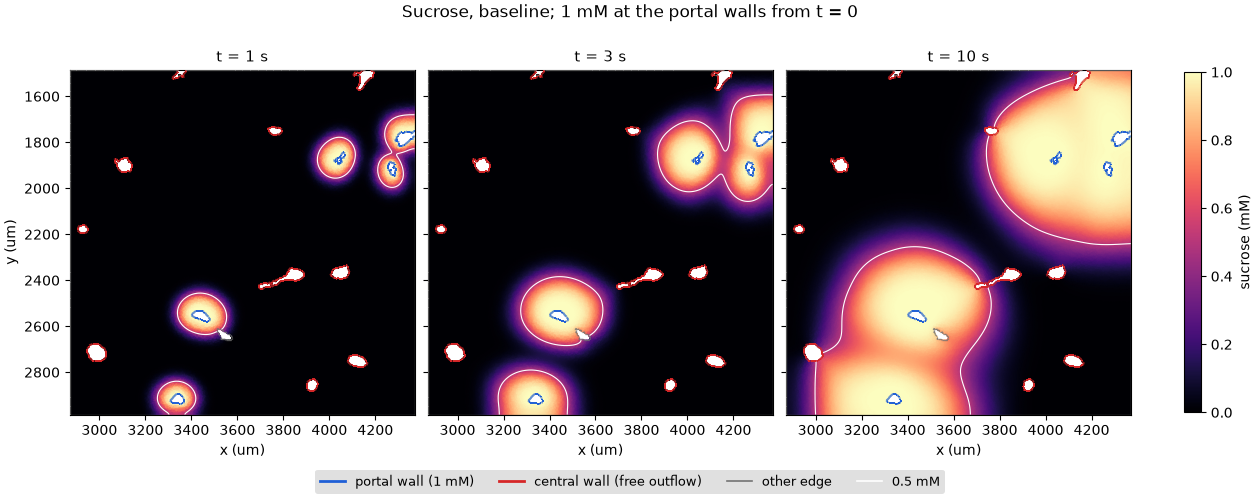
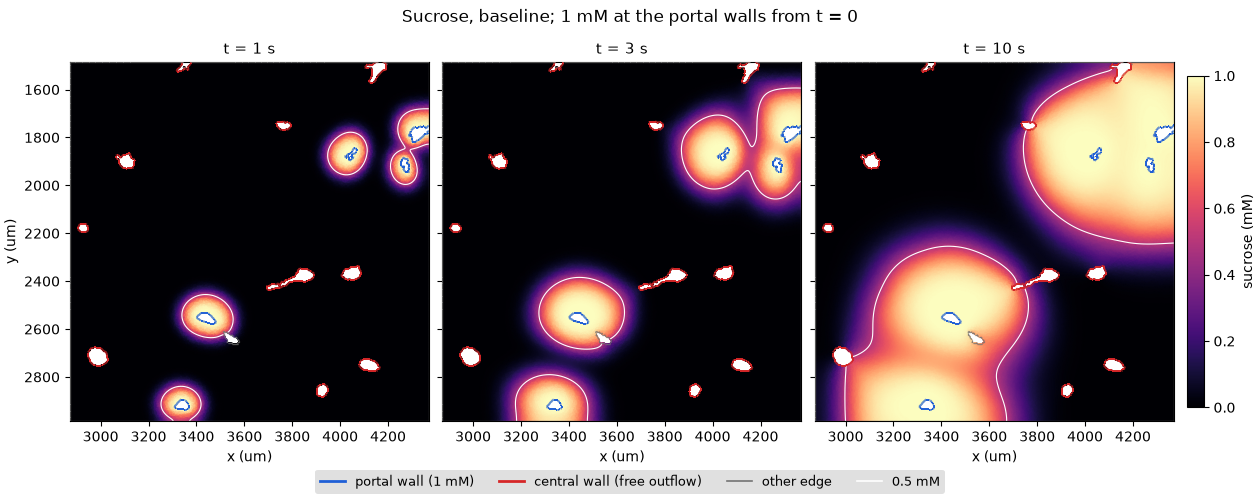
docs: rewrap results prose, whole numbers without -0 in report tables, tighter figure layouts

diff --git a/scripts/e2e/m2_real_slide/report.py b/scripts/e2e/m2_real_slide/report.py
@@ -16,6 +16,11 @@ from pathlib import Path
 OUTLET = "central_wall"
 
 
+def whole(x: float) -> str:
+    """x rounded to a whole number, without the sign of a value that rounds to zero ("0", not "-0")."""
+    return str(round(x) + 0)
+
+
 def flows(runs: dict) -> list[str]:
     lines = [("| Run | portal_wall | central_wall | sum / largest | portal pieces (all inflow) | central pieces "
              "(all outflow) | pieces vs tag_flows |"), "|---|---|---|---|---|---|---|"]
@@ -54,9 +59,26 @@ def balance(runs: dict) -> list[str]:
             free = b["free_outflow"]
             leak = " / ".join(f"{free[t]['pct_of_portal_flow']:.2f}" if t in free else "-"
                               for t in ("vessel_wall", "field_cut", "section_edge"))
-            lines.append(f"| {name} | {b['t']:g} | {b['storage_rate']:.0f} | {portal['advective']:.0f} + "
-                         f"{portal['diffusive']:.0f} | {b['inflow'][OUTLET]['advective']:.0f} | {leak} | "
+            lines.append(f"| {name} | {b['t']:g} | {whole(b['storage_rate'])} | {whole(portal['advective'])} + "
+                         f"{whole(portal['diffusive'])} | {whole(b['inflow'][OUTLET]['advective'])} | {leak} | "
                          f"{b['defect_pct_of_portal_flow']:.1f} | {b['closure_over_largest_term']:.0e} |")
+    return lines
+
+
+def balance_terms(runs: dict) -> list[str]:
+    """The terms of the balance in mM*um^2/s, per run and output time."""
+    lines = [("| Run | t (s) | storage_rate | portal_wall advective + diffusive | central_wall advective | "
+              "vessel_wall / field_cut / section_edge advective | advection_defect |"),
+             "|---|---|---|---|---|---|---|"]
+    for name, r in runs.items():
+        for b in r["balance"]:
+            inflow = b["inflow"]
+            portal = inflow["portal_wall"]
+            walls = " / ".join(whole(inflow[t]["advective"]) if t in inflow else "-"
+                               for t in ("vessel_wall", "field_cut", "section_edge"))
+            lines.append(f"| {name} | {b['t']:g} | {whole(b['storage_rate'])} | {whole(portal['advective'])} + "
+                         f"{whole(portal['diffusive'])} | {whole(inflow[OUTLET]['advective'])} | {walls} | "
+                         f"{whole(b['advection_defect'])} |")
     return lines
 
 
@@ -96,7 +118,7 @@ def front(runs: dict) -> list[str]:
     for name, r in runs.items():
         for f in r["front"]:
             lines.append(f"| {name} | {f['t']:g} | {f['area_above_half_pct']:.1f} % | {f['central_wall_mean']:.3f} | "
-                         f"{f['min']:.1e} | {f['max']:.6f} | {f['total_mass']:.0f} |")
+                         f"{f['min']:.1e} | {f['max']:.6f} | {whole(f['total_mass'])} |")
     return lines
 
 
@@ -107,7 +129,9 @@ def main() -> None:
     args = parser.parse_args()
     runs = {p.stem: json.loads(p.read_text()) for p in args.analyses}
     for title, table in (("Flows", flows), ("Flow per wall piece (um^2/s, positive into the domain)", pieces),
-                         ("Mass balance of the tracer (mM*um^2/s)", balance),
+                         ("Mass balance of the tracer (mM*um^2/s; leak and defect in % of the portal flow)",
+                          balance),
+                         ("Terms of the mass balance of the tracer (mM*um^2/s)", balance_terms),
                          ("Outflow through walls without flow, by piece", leak_pieces),
                          ("Interstitial velocity (um/s)", velocity), ("Tracer front", front)):
         print(f"## {title}\n")

diff --git a/scripts/e2e/m2_real_slide/velocity_distribution.py b/scripts/e2e/m2_real_slide/velocity_distribution.py
@@ -48,7 +48,7 @@ def main() -> None:
     parser.add_argument("--out", type=Path, required=True, help="the PNG file to write")
     args = parser.parse_args()
     plt.switch_backend("Agg")
-    fig, axes = plt.subplots(1, 2, figsize=(11.0, 5.4), layout="constrained")
+    fig, axes = plt.subplots(1, 2, figsize=(11.0, 5.0), layout="constrained")
     bounds: dict[float, list] = {}
     lowest, highest_bin = np.inf, 0.0
     for spec, color in zip(args.runs, COLORS, strict=False):
@@ -98,8 +98,8 @@ def main() -> None:
     axes[0].set_title("Median and 10-90 % band per distance class;\ndashed: 1D bound k_along/mu x pressure drop / "
                       "distance / phi", fontsize=10)
     medians = axes[0].get_legend_handles_labels()[0]
-    axes[0].legend(handles=medians + handles, fontsize=8, loc="upper center", bbox_to_anchor=(0.5, -0.16), ncol=2,
-                   frameon=False)
+    # below both axes, centred on the figure
+    fig.legend(handles=medians + handles, fontsize=8, loc="outside lower center", ncol=4, frameon=False)
     axes[1].axvspan(*MEASURED, color="0.88", lw=0, zorder=0)
     axes[1].fill_between([], [], color="0.88", label=f"measured in mice, {MEASURED[0]:g}-{MEASURED[1]:g} um/s")
     axes[1].set_ylim(0, highest_bin * 1.45)

diff --git a/scripts/e2e/m2_real_slide/render.py b/scripts/e2e/m2_real_slide/render.py
@@ -111,7 +111,7 @@ def velocity(run: Run, triangulation: mtri.Triangulation, he_path: Path, title: 
 
 def sucrose(run: Run, triangulation: mtri.Triangulation, field: str, title: str, path: Path) -> None:
     times = run.summary["fields"][field]["times"]
-    fig, axes = plt.subplots(1, len(TIMES), figsize=(12.6, 5.0), sharey=True, layout="constrained")
+    fig, axes = plt.subplots(1, len(TIMES), figsize=(12.6, 5.0), sharey=True, layout="compressed")
     for ax, t in zip(axes, TIMES, strict=True):
         index = int(np.argmin(np.abs(np.array(times) - t)))
         c = run.field(field, index)
@@ -123,7 +123,7 @@ def sucrose(run: Run, triangulation: mtri.Triangulation, field: str, title: str,
         if ax is not axes[0]:
             ax.set_ylabel("")
         ax.set_title(f"t = {times[index]:g} s")
-    fig.colorbar(mappable, ax=axes, label=f"{field} (mM)", shrink=0.8)
+    fig.colorbar(mappable, ax=axes, label=f"{field} (mM)", shrink=0.8, pad=0.012)
     handles = [Line2D([], [], color=PORTAL, lw=2, label="portal wall (1 mM)"),
                Line2D([], [], color=CENTRAL, lw=2, label="central wall (free outflow)"),
                Line2D([], [], color=OTHER, lw=1.2, label="other edge"),

diff --git a/scripts/e2e/m2_real_slide/cases.py b/scripts/e2e/m2_real_slide/cases.py
@@ -31,7 +31,7 @@ def main() -> None:
     args = parser.parse_args()
     plt.switch_backend("Agg")
     fig, axes = plt.subplots(1, len(args.runs), figsize=(3.3 * len(args.runs) + 1.0, 4.4), sharey=True,
-                             layout="constrained")
+                             layout="compressed")
     for ax, spec in zip(np.atleast_1d(axes), args.runs, strict=True):
         label, rest = spec.split("=", 1)
         run_dir, study = rest.split(":")
@@ -47,7 +47,7 @@ def main() -> None:
         if ax is not np.atleast_1d(axes)[0]:
             ax.set_ylabel("")
         ax.set_title(label, fontsize=10)
-    fig.colorbar(mappable, ax=axes, label=f"{args.field} (mM)", shrink=0.85)
+    fig.colorbar(mappable, ax=axes, label=f"{args.field} (mM)", shrink=0.85, pad=0.012)
     handles = [Line2D([], [], color=PORTAL, lw=2, label="portal wall (1 mM)"),
                Line2D([], [], color=CENTRAL, lw=2, label="central wall (free outflow)"),
                Line2D([], [], color=OTHER, lw=1.2, label="other edge"),

diff --git a/docs/results/2026-11-m2-real-slide.md b/docs/results/2026-11-m2-real-slide.md
@@ -182,13 +182,13 @@ middle) are the high-pressure islands. The y axis points down, as the rows of th
 ![Flow over the H&E](2026-11-m2-real-slide/velocity.png)
 
 Streamlines of the Darcy velocity over the H&E of the field (gray scale, contrast stretched),
-colored by the interstitial velocity |u|/phi. The color scale ends at 68 um/s, the 98th
-percentile of |u|/phi over the tissue (area weighted); faster paths, next to the portal walls,
-show in the top color (radial10: 41 um/s). The mesh walls lie on the lumina of the H&E. Flow leaves each
-portal wall to all sides and enters the central walls around it; the fastest paths join the
-portal wall at (3440, 2550) um with the central walls at (3720-3870, 2370-2410) um, and the three
-portal walls at the upper right with the central walls at (3760, 1740) and (4180, 1530) um. The
-left part of the field (x below 3300 um) has no portal wall and slow flow.
+colored by the interstitial velocity |u|/phi. The color scale ends at 68 um/s, the 98th percentile
+of |u|/phi over the tissue (area weighted); faster paths, next to the portal walls, show in the top
+color (radial10: 41 um/s). The mesh walls lie on the lumina of the H&E. Flow leaves each portal wall
+to all sides and enters the central walls around it; the fastest paths join the portal wall at
+(3440, 2550) um with the central walls at (3720-3870, 2370-2410) um, and the three portal walls at
+the upper right with the central walls at (3760, 1740) and (4180, 1530) um. The left part of the
+field (x below 3300 um) has no portal wall and slow flow.
 
 With strong radial anisotropy (radial10) the flow follows the zonation gradient more strictly:
 paths between near pairs are straighter, and where the gradient turns, in the left half, the
@@ -221,14 +221,14 @@ elsewhere.
 
 ![Velocity against the portal-central distance, and its distribution](2026-11-m2-real-slide/velocity_distribution.png)
 
-Left: the interstitial velocity falls with the local portal-central distance as Darcy flow
-should. The dashed lines, k_along/mu x 390 Pa / distance / phi for a straight one-dimensional
-path, are upper bounds, one per study; baseline and radial10 share theirs (gray), as they have
-the same k_along and viscosity. For the baseline the median is within a factor of 1.2-1.4 of it
-at 250-350 um, the shortest distances in this field. radial10 stays a factor of 2.5-5 below it, since its flow has to cross the zonation gradient in
-places. Beyond 900 um (the left part without portal walls) the velocity drops steeply. Right:
-the distribution over the tissue is wide; the calibrated study puts 26 % of the tissue into the
-measured range, the baseline 1.9 %.
+Left: the interstitial velocity falls with the local portal-central distance as Darcy flow should.
+The dashed lines, k_along/mu x 390 Pa / distance / phi for a straight one-dimensional path, are
+upper bounds, one per study; baseline and radial10 share theirs (gray), as they have the same
+k_along and viscosity. For the baseline the median is within a factor of 1.2-1.4 of it at 250-350
+um, the shortest distances in this field. radial10 stays a factor of 2.5-5 below it, since its flow
+has to cross the zonation gradient in places. Beyond 900 um (the left part without portal walls) the
+velocity drops steeply. Right: the distribution over the tissue is wide; the calibrated study puts
+26 % of the tissue into the measured range, the baseline 1.9 %.
 
 Why the field mean is low: the field holds about 13 lobules (CYP2E1 peaks), and so about 13
 central veins and as many portal tracts, but the mesh has 5 portal walls (see "Choice of the
@@ -254,10 +254,10 @@ portal regions. The front spreads to all sides of each portal wall, also into th
 | 5 | 20.5 % | 0.055 | 69609 |
 | 10 | 36.2 % | 0.208 | 120079 |
 
-The mean at the central wall nodes is low because 9 of the 13 central wall pieces lie more than
-300 um from the nearest portal wall. With 2 refinements the minimum of the field stays above
--1e-13 mM (with 0 refinements -1e-6 mM at 1 s) and the maximum at 1 mM: no over- or undershoot at these cell Peclet numbers (Darcy
-velocity times element size over diffusion: 0.02-0.1 near the portal walls).
+The mean at the central wall nodes is low because 9 of the 13 central wall pieces lie more than 300
+um from the nearest portal wall. With 2 refinements the minimum of the field stays above -1e-13 mM
+(with 0 refinements -1e-6 mM at 1 s) and the maximum at 1 mM: no over- or undershoot at these cell
+Peclet numbers (Darcy velocity times element size over diffusion: 0.02-0.1 near the portal walls).
 
 ![Sucrose at 3 s in the four studies](2026-11-m2-real-slide/sucrose_cases_3s.png)
 
@@ -279,12 +279,15 @@ residual of the discrete equations, at a Dirichlet tag; zero at a tag without co
 split is exact: both parts are computed apart in slidesim. The balance closes to 3e-13 of its
 largest term in every run and at every output time.
 
-Baseline, 2 refinements (portal wall flow 13955 um^2/s, so 13955 mM*um^2/s at 1 mM):
+Baseline, 2 refinements (portal wall flow 13955 um^2/s, so 13955 mM*um^2/s at 1 mM; the table of
+`report.py`, in whole mM*um^2/s):
 
 | t (s) | storage_rate | portal_wall advective + diffusive | central_wall advective | vessel_wall / field_cut / section_edge advective | advection_defect |
 |---|---|---|---|---|---|
-| 1 | 14300 | 12754 + 380 | -0 | -34 / -9 / -0 | -1209 |
-| 3 | 13715 | 12754 + 100 | -240 | -69 / -21 / -0 | -1190 |
+| 1 | 14300 | 12754 + 380 | 0 | -34 / -9 / 0 | -1209 |
+| 2 | 14058 | 12754 + 179 | -12 | -58 / -17 / 0 | -1212 |
+| 3 | 13715 | 12754 + 100 | -240 | -69 / -21 / 0 | -1190 |
+| 5 | 12045 | 12754 + 37 | -1702 | -77 / -27 / -1 | -1061 |
 | 10 | 8485 | 12754 + 6 | -4938 | -82 / -43 / -5 | -793 |
 
 ### Outflow through walls without flow (leak)
@@ -309,13 +312,14 @@ times 1 mM:
 All of the `vessel_wall` leak goes through the one unclassified lumen, at x 3512-3577 um, y
 2610-2661 um (the white lumen right of the portal wall at (3443, 2557) in the figures), which the
 tracer front reaches at about 1 s. The `field_cut` leak is spread along the field edges where the
-flow from the portal regions meets them (bottom and right edges). `analyze.py` recomputes the outflow per tag and per
-piece from `pressure.vtu`, the tracer and the zonation map, and matches the advective parts of
-`summary.json` to all printed digits. The leak falls by a factor of 1.6 per refinement (order
-about 0.67 in the element size), at 1 s as at 10 s. Against the outflow through the central walls (4938 mM*um^2/s at 10 s, baseline) it is
-small, and it does not change the front: the amounts and fronts below agree between the levels.
-The structural fix is a conservative velocity with u.n = 0 on the no-flow walls (flux recovery
-from the pressure residual, or a mixed method), planned for milestone 3.
+flow from the portal regions meets them (bottom and right edges). `analyze.py` recomputes the
+outflow per tag and per piece from `pressure.vtu`, the tracer and the zonation map, and matches the
+advective parts of `summary.json` to all printed digits. The leak falls by a factor of 1.6 per
+refinement (order about 0.67 in the element size), at 1 s as at 10 s. Against the outflow through
+the central walls (4938 mM*um^2/s at 10 s, baseline) it is small, and it does not change the front:
+the amounts and fronts below agree between the levels. The structural fix is a conservative velocity
+with u.n = 0 on the no-flow walls (flux recovery from the pressure residual, or a mixed method),
+planned for milestone 3.
 
 ### advection_defect
 
@@ -399,10 +403,13 @@ at 1 s was 18.9, 12.2, 7.6 and 4.6 % at 0 to 3 refinements, the total mass at 1 
 ## Reproduce
 
 ```bash
-export SLIDEVIZ_DATA=/path/to/APAP_zarr     # slides, sidecars and predictions/; read only
-scripts/e2e/m2_real_slide.sh                 # slideviz chain, four studies, baseline at 0 and 1 refinements, analysis
-FIGURES=docs/results/2026-11-m2-real-slide STEPS=analysis scripts/e2e/m2_real_slide.sh   # the figures of this document
-CENTRE_ROW=14000 CENTRE_COL=12000 OUT=/tmp/first-field scripts/e2e/m2_real_slide.sh   # the first field
+export SLIDEVIZ_DATA=/path/to/APAP_zarr  # slides, sidecars and predictions/; read only
+# slideviz chain, four studies, baseline at 0 and 1 refinements, analysis
+scripts/e2e/m2_real_slide.sh
+# the figures of this document, from the runs above
+FIGURES=docs/results/2026-11-m2-real-slide STEPS=analysis scripts/e2e/m2_real_slide.sh
+# the first field
+CENTRE_ROW=14000 CENTRE_COL=12000 OUT=/tmp/first-field scripts/e2e/m2_real_slide.sh
 ```
 
 The script writes to `OUT` (default `target/e2e/m2_real_slide`; see its header for the settings):
